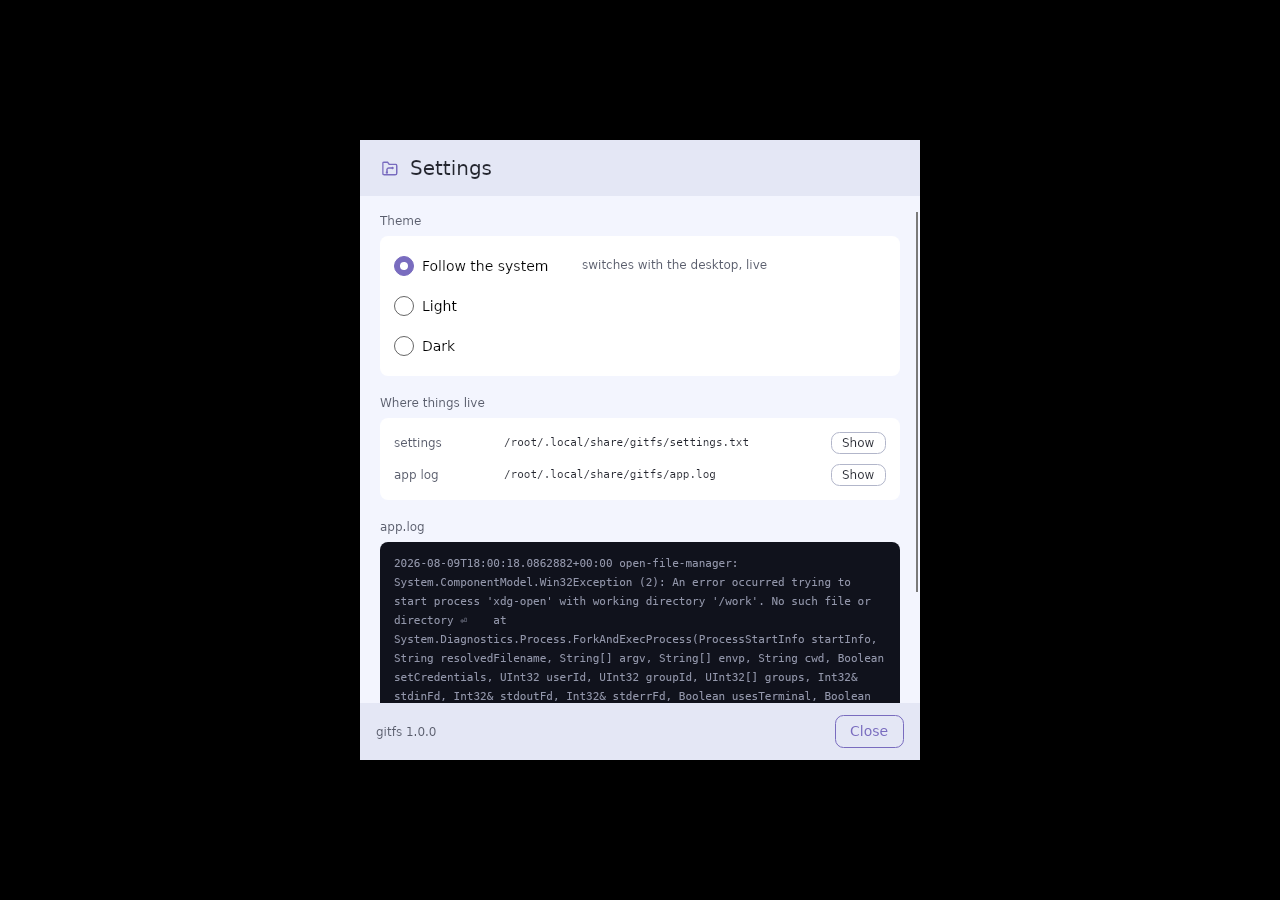
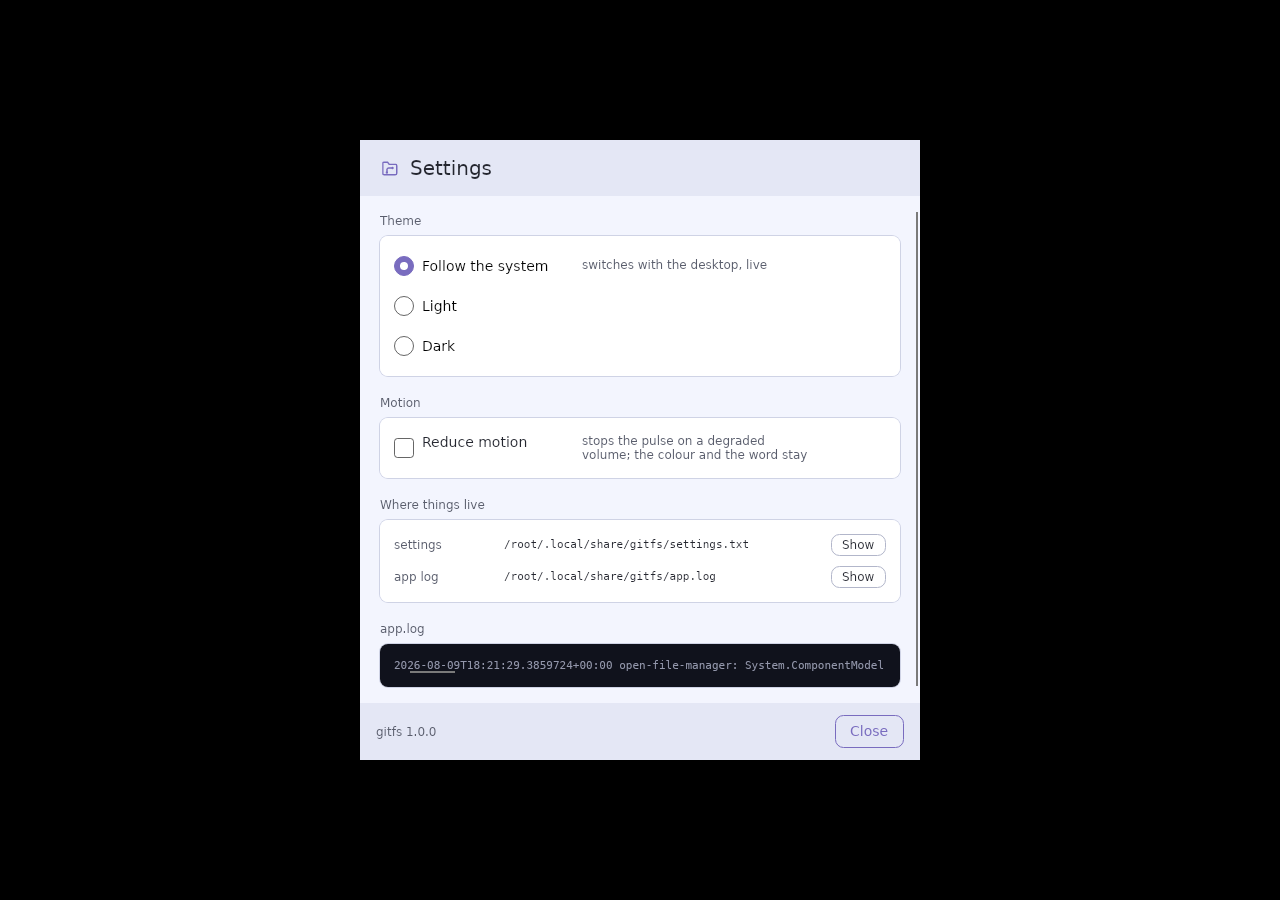
ui: тени из токенов, пульс у больного тома, один моношрифт на всё
Токены elevation (shadow-sm/md/lg) были в макете и не были нигде: карточки и
тост держались на одной рамке в один пиксель. Перенесены оба набора значений
— в тёмной теме это кольцо (размытая тень на тёмном фоне не видна вовсе), в
светлой кольцо и слабая чернильная тень. Блок терминала стал стилем
Border.term: три места собирали его по отдельности.

Пульс у тома, под которым пересобрались пакеты, — из макета
(.statuscell.warn .dot). Он ДОБАВКА к цвету и слову, а не замена: состояние,
видное только по движению, недоступно на снимке и исчезает вместе с
выключателем.

А выключатель нужен: движение на краю зрения мешает читать, а кому-то от него
физически плохо. Система про своё «reduce motion» кроссплатформенно не
рассказывает, поэтому спрашиваем человека — в настройках появился флажок, и
он действует на уже открытые окна сразу. Сделано добавлением и удалением
НАБОРА СТИЛЕЙ: правило, которого нет в приложении, не может сработать, и
следующая анимация не забудет про условие, потому что условия в ней нет.

Файл настроек стал разбираться и писаться целиком: настроек стало две, и
запись одной легко унесла бы соседнюю строку — человек выключает движение,
меняет тему, движение возвращается. Тест на это падает от снятия одной
строки записи.

Моноширинная роль была написана в коде РУКАМИ и короче, чем в разметке:
«Cascadia Mono, Consolas, monospace» без DejaVu, Liberation и Menlo. На Linux
и macOS элементы, собранные кодом, падали на generic monospace, а соседние
[…]

Changed region(s): [[0.2812, 0.4356, 0.7188, 0.8089], [0.6562, 0.4667, 0.6875, 0.5289]]

diff --git a/src/Gitfs.App/Settings.cs b/src/Gitfs.App/Settings.cs
@@ -12,35 +12,59 @@ public enum ThemeChoice
     Dark,
 }
 
-/// <summary>Настройки приложения. Пока их ровно одна — тема, — но пункт
-/// «Настройки» есть в меню трея по брифу §4.2, и заводить под него класс
-/// сразу дешевле, чем прятать одну переменную в трёх местах.
+/// <summary>Настройки приложения: тема и движение. Обе доходят до экрана
+/// «Настройки» (бриф §4.2) и обе действительно что-то меняют — настройка,
+/// которая ничего не делает, хуже отсутствующей.
 ///
-/// Хранится строкой в обычном файле рядом с журналом: его можно открыть,
-/// прочитать и поправить руками. Ошибки чтения и записи не выходят наружу —
-/// приложение, которое не запустилось из-за настроек, потеряло больше, чем
-/// эти настройки стоят.</summary>
+/// Хранится строками «ключ = значение» в обычном файле рядом с журналом: его
+/// можно открыть, прочитать и поправить руками. Ошибки чтения и записи не
+/// выходят наружу — приложение, которое не запустилось из-за настроек,
+/// потеряло больше, чем эти настройки стоят.
+///
+/// Файл перечитывается целиком и переписывается целиком: настроек две, и
+/// разбирать частичные обновления было бы дороже, чем сам файл.</summary>
 public static class Settings
 {
     public static string Path { get; set; } = System.IO.Path.Combine(
         Environment.GetFolderPath(Environment.SpecialFolder.LocalApplicationData),
         "gitfs", "settings.txt");
 
-    private static ThemeChoice? _cached;
+    private static ThemeChoice? _theme;
+    private static bool? _reduceMotion;
 
     public static ThemeChoice Theme
     {
         get
         {
-            if (_cached is { } value) return value;
-            _cached = Read();
-            return _cached.Value;
+            if (_theme is { } value) return value;
+            Load();
+            return _theme!.Value;
         }
         set
         {
-            _cached = value;
-            Write(value);
+            _theme = value;
+            Save();
             Apply(value);
+        }
+    }
+
+    /// <summary>Не двигать то, что можно не двигать. Анимация у нас ровно
+    /// одна — пульс у больного тома, — но выключатель ей нужен: движение на
+    /// краю зрения мешает читать, а кому-то от него физически плохо. Система
+    /// про своё «reduce motion» кроссплатформенно не рассказывает, поэтому
+    /// спрашиваем человека, а не угадываем.</summary>
+    public static bool ReduceMotion
+    {
+        get
+        {
+            if (_reduceMotion is { } value) return value;
+            Load();
+            return _reduceMotion!.Value;
+        }
+        set
+        {
+            _reduceMotion = value;
+            Save();
         }
     }
 
@@ -67,40 +91,63 @@ public static class Settings
         _ => "auto",
     };
 
-    private static ThemeChoice Read()
+    private static void Load()
     {
+        // Умолчания ставятся ДО чтения: файла может не быть, он может быть
+        // повреждён, и в обоих случаях значения обязаны оказаться заданными,
+        // иначе следующее обращение снова полезет в файл.
+        _theme ??= ThemeChoice.Auto;
+        _reduceMotion ??= false;
+
         try
         {
-            if (!File.Exists(Path)) return ThemeChoice.Auto;
+            if (!File.Exists(Path)) return;
             foreach (var line in File.ReadLines(Path))
             {
                 var parts = line.Split('=', 2);
-                if (parts.Length != 2 || parts[0].Trim() != "theme") continue;
-                return parts[1].Trim().ToLowerInvariant() switch
+                if (parts.Length != 2) continue;
+                var value = parts[1].Trim().ToLowerInvariant();
+                switch (parts[0].Trim())
                 {
-                    "light" => ThemeChoice.Light,
-                    "dark" => ThemeChoice.Dark,
-                    _ => ThemeChoice.Auto,
-                };
+                    case "theme":
+                        _theme = value switch
+                        {
+                            "light" => ThemeChoice.Light,
+                            "dark" => ThemeChoice.Dark,
+                            _ => ThemeChoice.Auto,
+                        };
+                        break;
+                    case "reduce-motion":
+                        _reduceMotion = value is "yes" or "true" or "1" or "on";
+                        break;
+                }
             }
         }
         catch (Exception e) { Program.Log("settings-read", e); }
-        return ThemeChoice.Auto;
     }
 
-    private static void Write(ThemeChoice choice)
+    private static void Save()
     {
         try
         {
             var dir = System.IO.Path.GetDirectoryName(Path);
             if (!string.IsNullOrEmpty(dir)) Directory.CreateDirectory(dir);
-            File.WriteAllText(Path,
-                $"# gitfs settings{Environment.NewLine}theme = {Token(choice)}{Environment.NewLine}");
+            File.WriteAllText(Path, string.Join(Environment.NewLine, new[]
+            {
+                "# gitfs settings",
+                "theme = " + Token(_theme ?? ThemeChoice.Auto),
+                "reduce-motion = " + (_reduceMotion == true ? "yes" : "no"),
+                "",
+            }));
         }
         catch (Exception e) { Program.Log("settings-write", e); }
     }
 
-    /// <summary>Только для тестов: сбрасывает запомненное значение, чтобы
-    /// следующий вызов перечитал файл.</summary>
-    internal static void Forget() => _cached = null;
+    /// <summary>Только для тестов: сбрасывает запомненное, чтобы следующее
+    /// обращение перечитало файл.</summary>
+    internal static void Forget()
+    {
+        _theme = null;
+        _reduceMotion = null;
+    }
 }

diff --git a/src/Gitfs.App/Motion.cs b/src/Gitfs.App/Motion.cs
@@ -1,0 +1,49 @@
+using Avalonia;
+using Avalonia.Markup.Xaml.Styling;
+using Avalonia.Styling;
+
+namespace Gitfs.App;
+
+/// <summary>Движение в интерфейсе — включаемое.
+///
+/// Анимация здесь ровно одна: пульс у тома, под которым пересобрались
+/// пакеты. Но выключатель ей нужен всё равно — движение на краю зрения
+/// мешает читать, а кому-то от него физически плохо. Система про своё
+/// «reduce motion» кроссплатформенно не рассказывает (Avalonia 11 такого
+/// свойства не отдаёт), поэтому спрашиваем человека в настройках, а не
+/// угадываем по платформе.
+///
+/// Реализовано добавлением и удалением НАБОРА СТИЛЕЙ: правило, которого нет
+/// в приложении, не может сработать. Гасить анимацию условием внутри стиля
+/// пришлось бы в каждом её месте, и первое же новое движение про условие
+/// забыло бы.</summary>
+internal static class Motion
+{
+    private static readonly Uri Source =
+        new("avares://Gitfs.App/Motion.axaml");
+
+    private static IStyle? _styles;
+
+    /// <summary>Приводит стили приложения в согласие с настройкой. Зовётся
+    /// при запуске и при каждом изменении переключателя: окна, уже
+    /// открытые, обязаны перестать двигаться сразу — настройку меняют
+    /// именно потому, что движение мешает СЕЙЧАС.</summary>
+    public static void Apply()
+    {
+        if (Application.Current is not { } app) return;
+
+        var wanted = !Settings.ReduceMotion;
+        var present = _styles is not null && app.Styles.Contains(_styles);
+        if (wanted == present) return;
+
+        if (wanted)
+        {
+            _styles ??= new StyleInclude(Source) { Source = Source };
+            app.Styles.Add(_styles);
+        }
+        else if (_styles is not null)
+        {
+            app.Styles.Remove(_styles);
+        }
+    }
+}

diff --git a/src/Gitfs.App/Palette.cs b/src/Gitfs.App/Palette.cs
@@ -23,10 +23,29 @@ internal static class Palette
     public static IBrush Err => Brush("GfsErrBrush", Brand.ErrHex);
     public static IBrush Strike => Brush("GfsStrikeBrush", Brand.StrikeHex);
 
-    /// <summary>Терминал — одинаковый в обеих темах, поэтому и вариант темы
-    /// здесь ни при чём: цитата чужого текста не подстраивается под окно.</summary>
-    public static IBrush Term => Brush("GfsTermBrush", Brand.TermHex);
+    /// <summary>Чернила терминала. Сам фон ставит стиль Border.term — он
+    /// один на все блоки; из кода нужен только цвет текста.</summary>
     public static IBrush TermInk => Brush("GfsTermInkBrush", Brand.TermInkHex);
+
+    /// <summary>Моноширинная роль — та же, что в разметке. В коде она была
+    /// написана руками и КОРОЧЕ: «Cascadia Mono, Consolas, monospace» без
+    /// DejaVu, Liberation и Menlo. На Linux и macOS элементы, собранные
+    /// кодом, падали на generic monospace, а соседние из разметки — нет:
+    /// одна роль, два разных шрифта в одном окне.</summary>
+    public static FontFamily Mono
+    {
+        get
+        {
+            var app = Application.Current;
+            if (app is not null
+                && app.TryGetResource("GfsMono", app.ActualThemeVariant, out var value)
+                && value is FontFamily family)
+            {
+                return family;
+            }
+            return new FontFamily("Cascadia Mono, Consolas, DejaVu Sans Mono, Menlo, monospace");
+        }
+    }
 
     public static IBrush ForStatus(Gitfs.Diagnostics.CheckStatus status) => status switch
     {

diff --git a/src/Gitfs.App/MainWindow.axaml.cs b/src/Gitfs.App/MainWindow.axaml.cs
@@ -182,7 +182,7 @@ public partial class MainWindow : Window
         {
             Text = word,
             Foreground = new SolidColorBrush(colour),
-            FontFamily = new FontFamily("Cascadia Mono, Consolas, monospace"),
+            FontFamily = Palette.Mono,
             FontSize = 12,
             Width = 34,
         });
@@ -238,7 +238,7 @@ public partial class MainWindow : Window
             {
                 Text = value,
                 Foreground = Palette.Text,
-                FontFamily = new FontFamily("Cascadia Mono, Consolas, monospace"),
+                FontFamily = Palette.Mono,
                 FontSize = 12, TextWrapping = TextWrapping.Wrap, MaxWidth = 200,
             });
             SidePanel.Children.Add(row);
@@ -340,8 +340,7 @@ public partial class MainWindow : Window
     /// строка журнала читается как утверждение продукта.</summary>
     private static Control Terminal(IReadOnlyList<string> lines, double fontSize) => new Border
     {
-        Background = Palette.Term,
-        CornerRadius = new Avalonia.CornerRadius(6),
+        Classes = { "term" },
         Padding = new Avalonia.Thickness(11, 10),
         Child = new StackPanel
         {
@@ -351,7 +350,7 @@ public partial class MainWindow : Window
                 {
                     Text = string.Join('\n', lines),
                     Foreground = Palette.TermInk,
-                    FontFamily = new FontFamily("Cascadia Mono, Consolas, monospace"),
+                    FontFamily = Palette.Mono,
                     FontSize = fontSize,
                     TextWrapping = TextWrapping.Wrap,
                     LineHeight = fontSize * 1.7,

diff --git a/tests/Gitfs.App.Tests/SettingsTests.cs b/tests/Gitfs.App.Tests/SettingsTests.cs
@@ -43,6 +43,35 @@ public class SettingsTests : IDisposable
         Assert.Equal(ThemeChoice.Dark, Settings.Theme);
     }
 
+    /// <summary>Настройки НЕ затирают друг друга. Файл переписывается
+    /// целиком, и запись темы легко может унести с собой соседнюю строку —
+    /// человек выключил движение, поменял тему, и движение вернулось.</summary>
+    [Fact]
+    public void Saving_one_setting_keeps_the_other()
+    {
+        Settings.ReduceMotion = true;
+        Settings.Theme = ThemeChoice.Dark;
+        Settings.Forget();
+
+        Assert.True(Settings.ReduceMotion);
+        Assert.Equal(ThemeChoice.Dark, Settings.Theme);
+
+        Settings.Theme = ThemeChoice.Light;
+        Settings.Forget();
+        Assert.True(Settings.ReduceMotion);
+    }
+
+    [Fact]
+    public void Motion_is_on_until_someone_turns_it_off()
+    {
+        // движение по умолчанию есть: выключатель — выбор, а не умолчание
+        Assert.False(Settings.ReduceMotion);
+
+        Settings.ReduceMotion = true;
+        Settings.Forget();
+        Assert.True(Settings.ReduceMotion);
+    }
+
     [Fact]
     public void The_file_is_readable_by_a_human()
     {

diff --git a/src/Gitfs.App/SettingsWindow.axaml.cs b/src/Gitfs.App/SettingsWindow.axaml.cs
@@ -28,6 +28,7 @@ public partial class SettingsWindow : Window
             case ThemeChoice.Dark: ThemeDark.IsChecked = true; break;
             default: ThemeAuto.IsChecked = true; break;
         }
+        ReduceMotion.IsChecked = Settings.ReduceMotion;
         _loading = false;
 
         SettingsPath.Text = Settings.Path;
@@ -48,6 +49,16 @@ public partial class SettingsWindow : Window
         if (ThemeLight.IsChecked == true) Settings.Theme = ThemeChoice.Light;
         else if (ThemeDark.IsChecked == true) Settings.Theme = ThemeChoice.Dark;
         else if (ThemeAuto.IsChecked == true) Settings.Theme = ThemeChoice.Auto;
+    }
+
+    private void OnMotionChanged(object? sender, RoutedEventArgs e)
+    {
+        if (_loading) return;
+        Settings.ReduceMotion = ReduceMotion.IsChecked == true;
+        // Уже открытые окна должны перестать двигаться СЕЙЧАС, а не после
+        // перезапуска: настройку меняют именно потому, что движение мешает
+        // прямо сейчас.
+        Motion.Apply();
     }
 
     /// <summary>Показывает файл в файловом менеджере. Именно показывает, а не

diff --git a/src/Gitfs.App/MountService.cs b/src/Gitfs.App/MountService.cs
@@ -30,6 +30,11 @@ public sealed record MountEntry(string Repository, string Path, string MountPoin
 
     public string HealthWord => Health == MountHealth.Ok ? "ok" : "reopening";
 
+    /// <summary>Для разметки: строке нужен признак, а не перечисление —
+    /// класс включается булевым свойством, и пульс появляется у больного
+    /// тома сам, без кода в обработчиках.</summary>
+    public bool IsDegraded => Health != MountHealth.Ok;
+
     public string Uptime
     {
         get

diff --git a/src/Gitfs.App/App.axaml.cs b/src/Gitfs.App/App.axaml.cs
@@ -16,6 +16,7 @@ public partial class App : Application
         // Тема — до создания окон: иначе первый кадр рисуется одной темой,
         // а следующий другой, и это видно.
         Settings.Apply(Settings.Theme);
+        Motion.Apply();
 
         if (ApplicationLifetime is IClassicDesktopStyleApplicationLifetime desktop)
         {

diff --git a/src/Gitfs.App/MountDialog.axaml.cs b/src/Gitfs.App/MountDialog.axaml.cs
@@ -169,7 +169,7 @@ public partial class MountDialog : Window
             row.Children.Add(new TextBlock
             {
                 Text = text,
-                FontFamily = new FontFamily("Cascadia Mono, Consolas, monospace"),
+                FontFamily = Palette.Mono,
                 FontSize = 12,
                 VerticalAlignment = VerticalAlignment.Center,
                 Foreground = ink,
